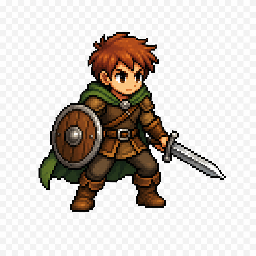
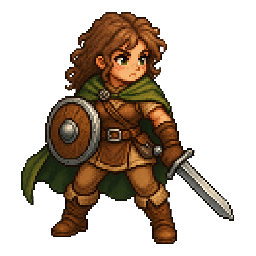
Replace player combat sprite with transparent curly-haired girl

diff --git a/src/game/assets/cacheBust.ts b/src/game/assets/cacheBust.ts
@@ -1,5 +1,5 @@
 /** Bump when replacing files under /public/assets so browsers fetch new art. */
-export const ASSET_CACHE_VERSION = 's13-player-combat-temp'
+export const ASSET_CACHE_VERSION = 's14-player-girl-transparent'
 
 export function withAssetVersion(path: string): string {
   if (!path) return path
